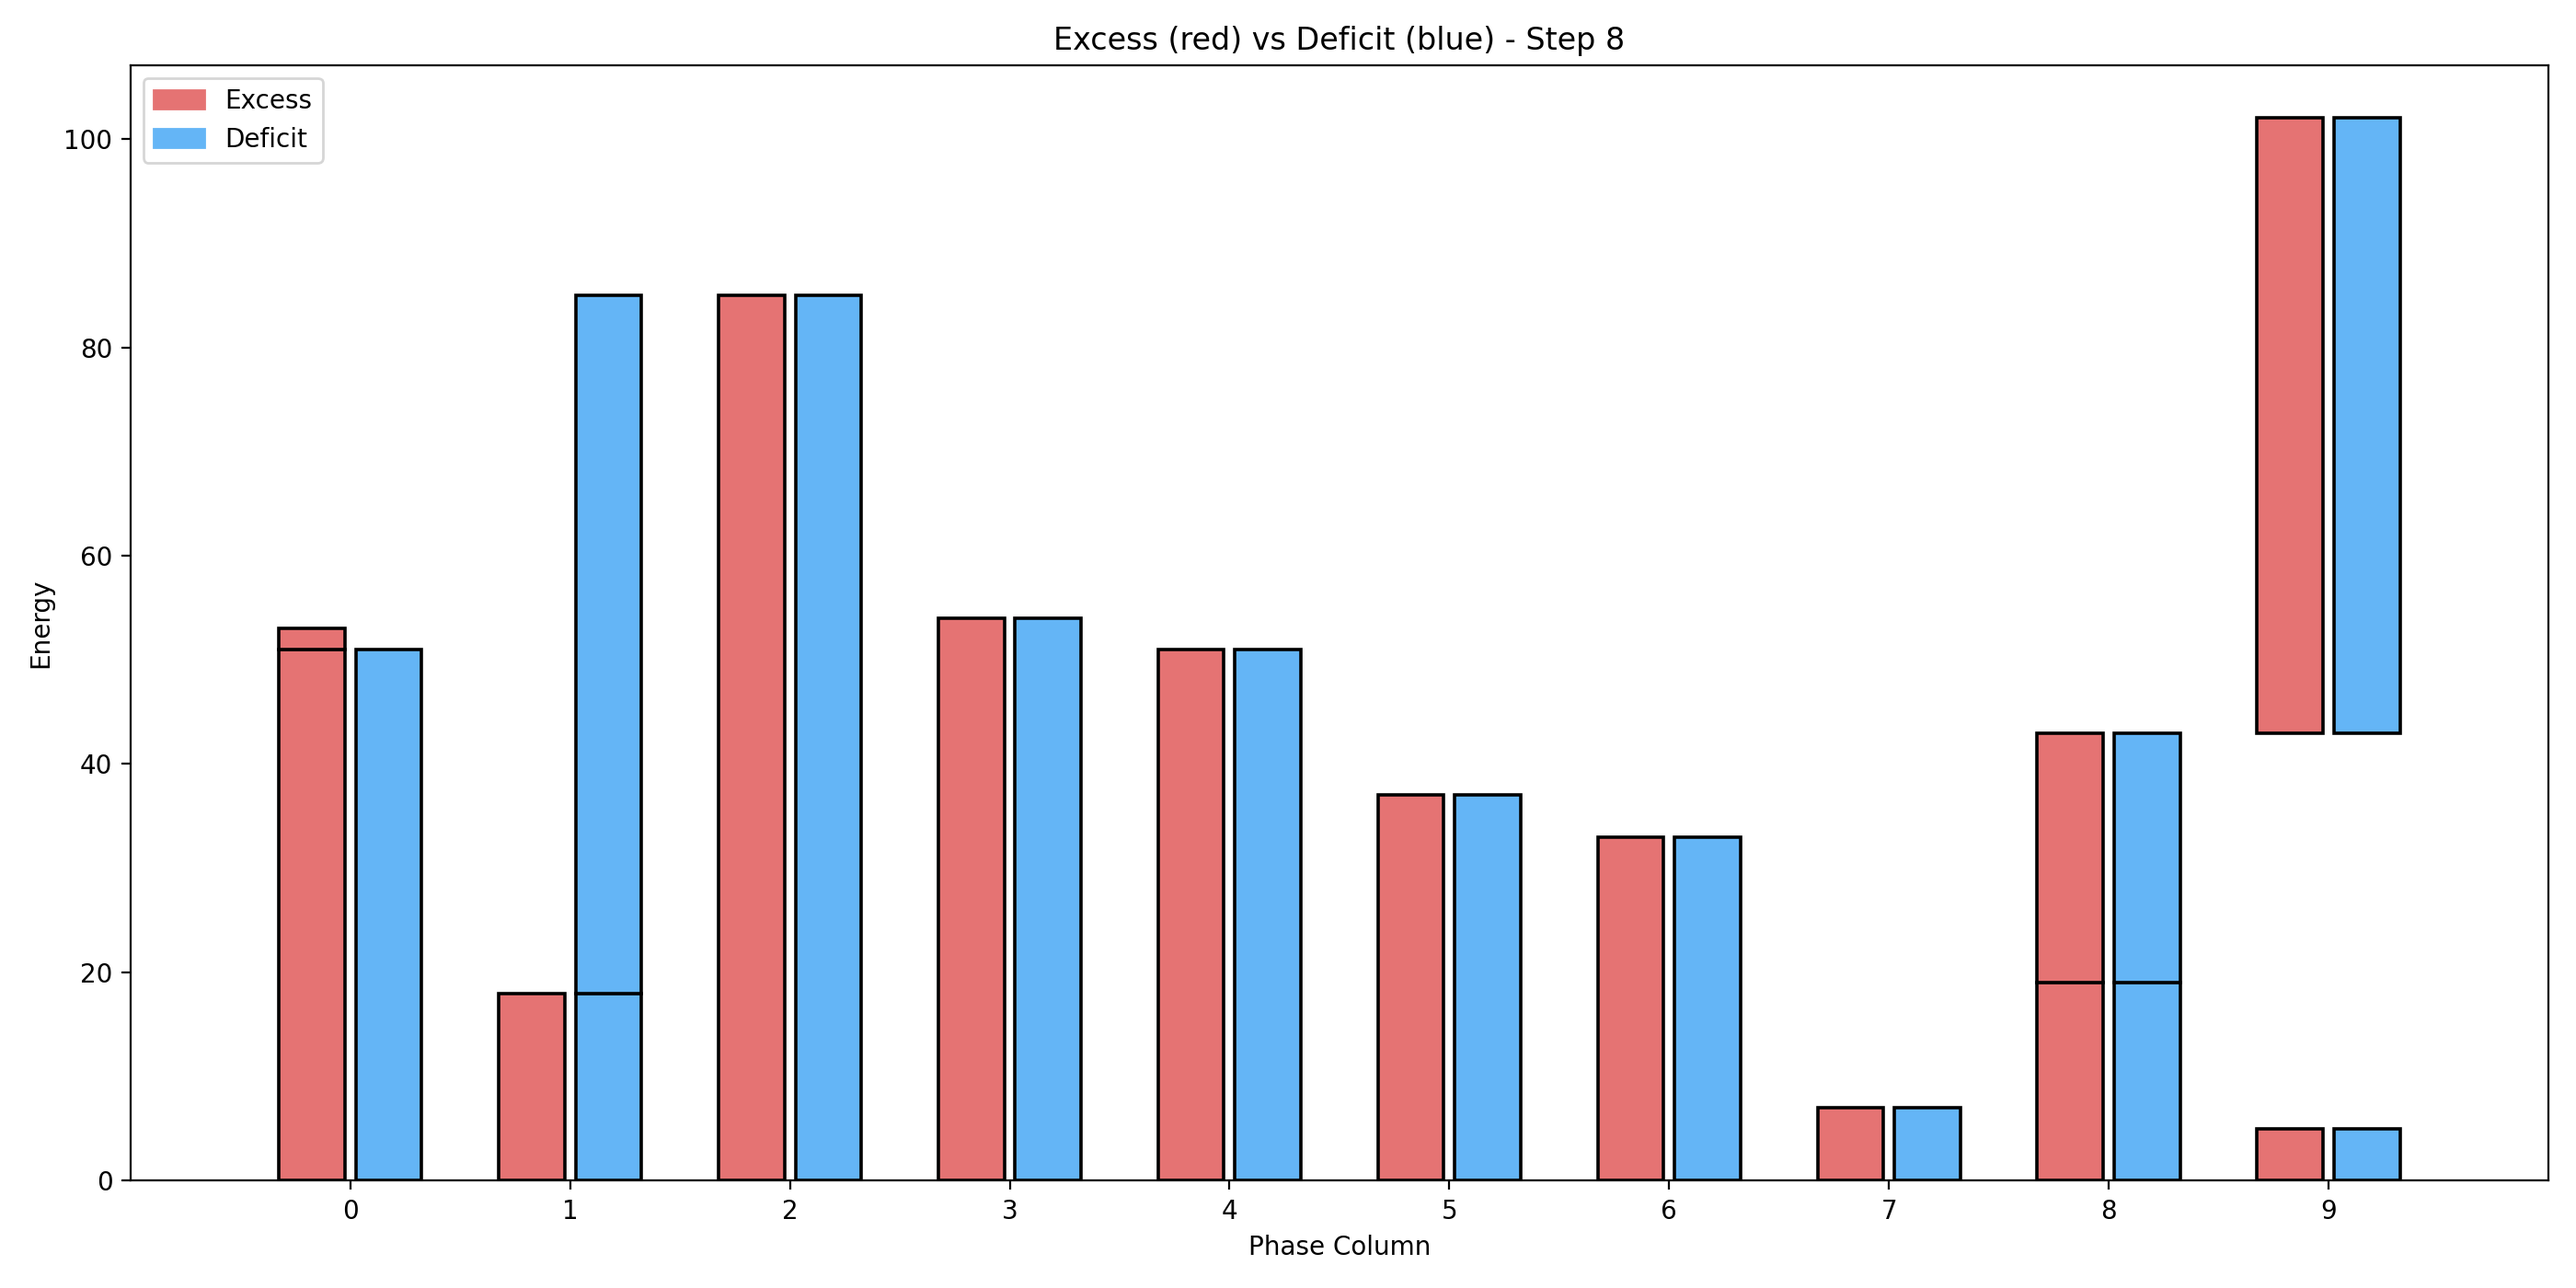
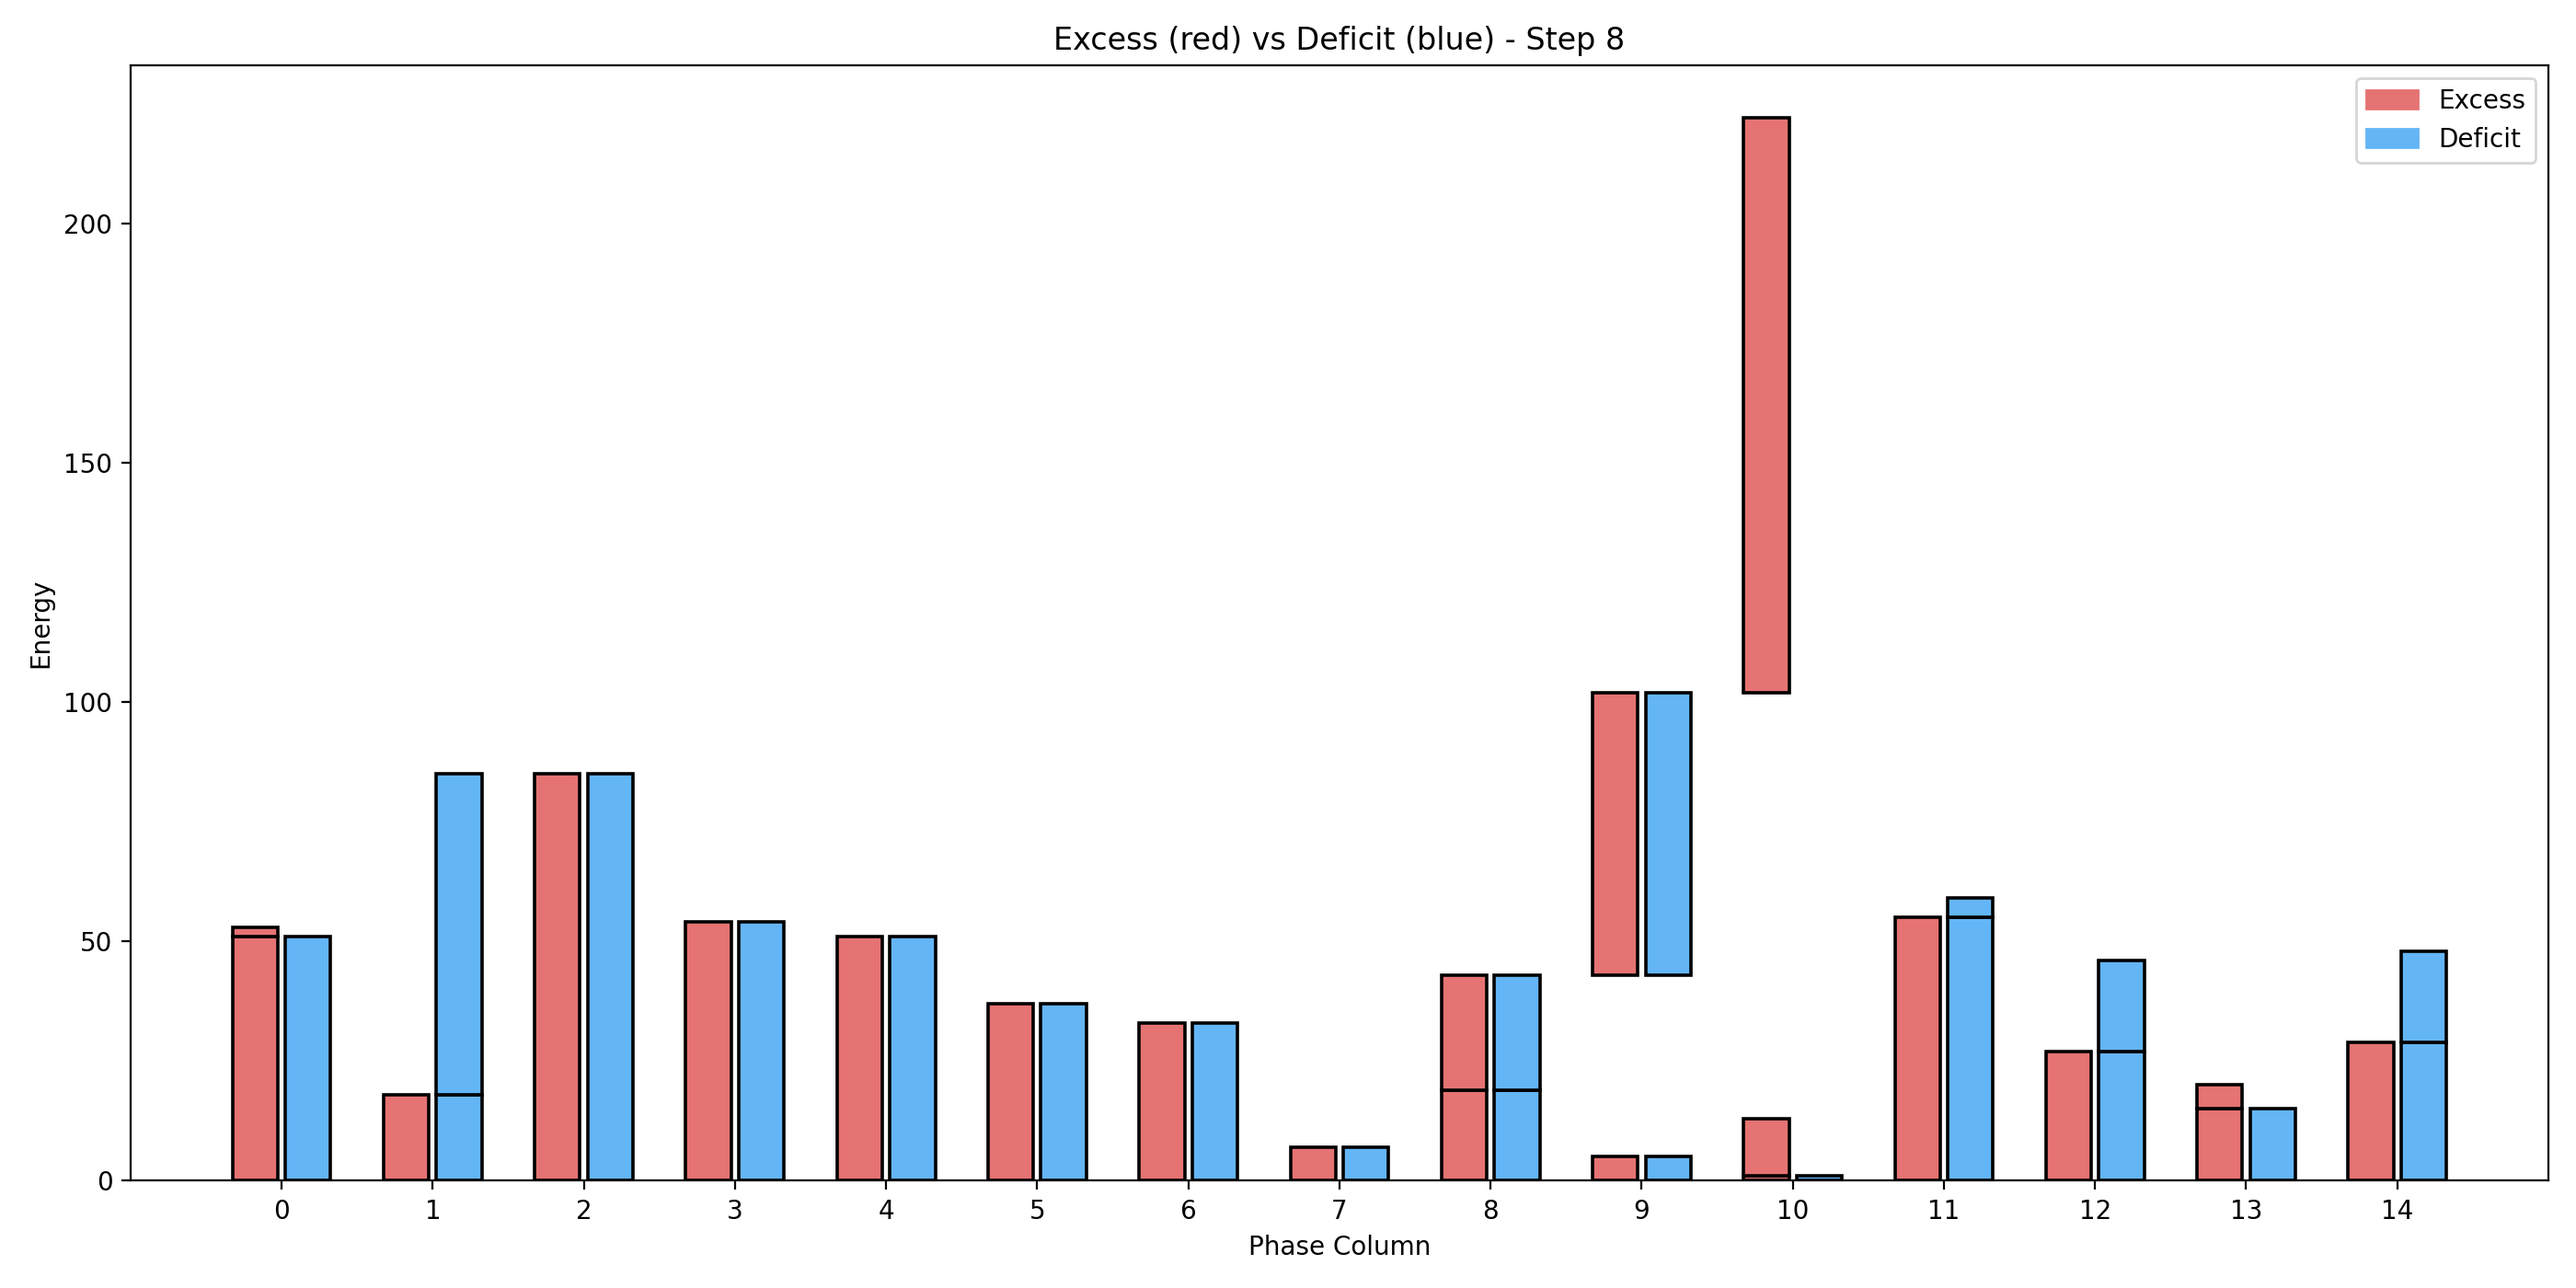
.

Changed region(s): [[0.0311, 0.0614, 0.9943, 0.9521], [0.0311, 0.0614, 0.1243, 0.1229]]

diff --git a/run.py b/run.py
@@ -29,6 +29,6 @@ if __name__ == '__main__':
 
     #test_version_solo("new_version_fusion", False, 53)
 
-    #visualize_output_each_step(phase_count =  15)
+    visualize_output_each_step(phase_count =  15)
 
     #visualize(cfg,"new_version_fusion" , phase=11, max_cols = 100, case = "worst_case")

diff --git a/helper/visualizer.py b/helper/visualizer.py
@@ -156,7 +156,7 @@ def visualize(
         case="average_case",
         step_data=None,
         figsize=(14, 7),
-        max_cols=10,
+        max_cols=0,
         width_excess=3.0,
         width_deficit=3.0,
         white_gap_width=0.5,
